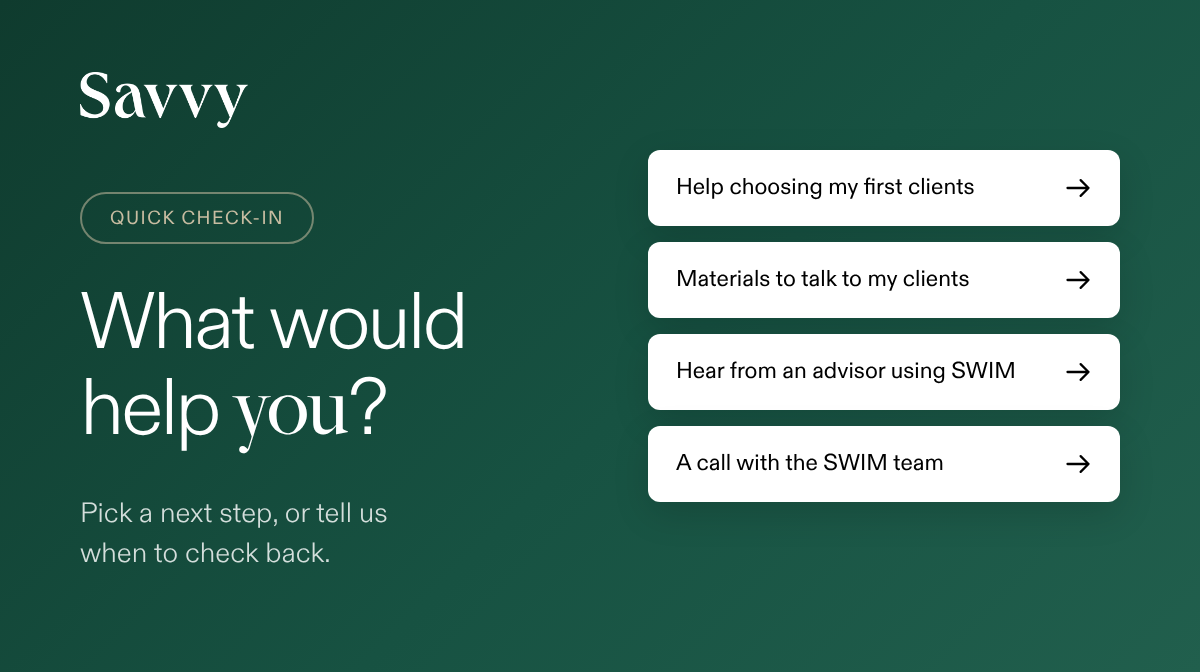
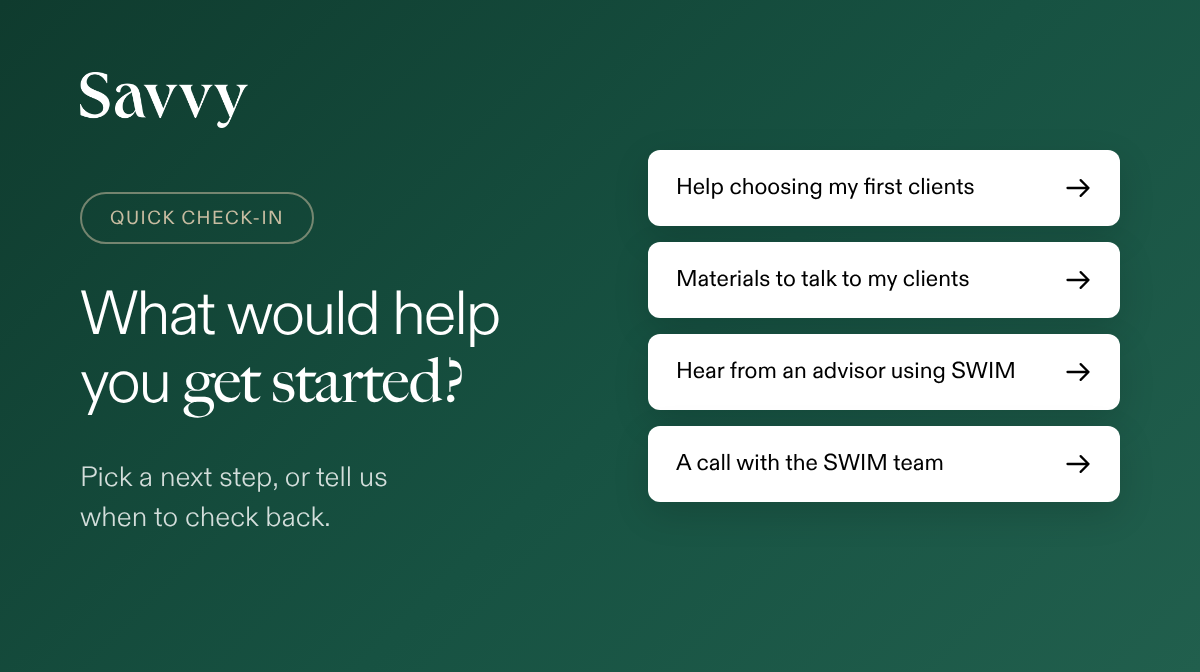
Email 6: original header headline and subheadline
Claude-Session: https://claude.ai/code/session_01C4U8FBFynJxChWkXC4yVRQ

Changed region(s): [[0.0617, 0.4375, 0.4317, 0.7188], [0.0617, 0.75, 0.3392, 0.7812], [0.0617, 0.8125, 0.2775, 0.8438]]

diff --git a/emails/header-6.html b/emails/header-6.html
@@ -15,7 +15,7 @@
   .logo{position:absolute;top:36px;left:40px;width:84px}
   .left{position:absolute;left:40px;top:96px;display:flex;flex-direction:column;align-items:flex-start;gap:20px}
   .eyebrow{border:1px solid rgba(199,188,161,.55);border-radius:999px;padding:7.25px 14px 6.75px;font-size:9.5px;line-height:10px;letter-spacing:.08em;text-transform:uppercase;white-space:nowrap;color:#C7BCA1}
-  h1{font-weight:300;font-size:40px;line-height:42px;letter-spacing:-.04em;white-space:nowrap}
+  h1{font-weight:300;font-size:31px;line-height:33px;letter-spacing:-.04em;white-space:nowrap}
   h1 .serif{font-family:'Big Caslon',Georgia,serif;font-weight:400;letter-spacing:-.01em}
   .sub{font-weight:300;font-size:14px;line-height:20px;color:rgba(255,255,255,.82);white-space:nowrap}
   .art{position:absolute;left:0;top:0}
@@ -34,7 +34,7 @@
   <img class="logo" src="assets/savvy-wordmark-white.png" alt="Savvy">
   <div class="left">
     <div class="eyebrow">Quick check-in</div>
-    <h1>What would<br>help <span class='serif'>you</span>?</h1>
+    <h1>What would help<br>you <span class='serif'>get started?</span></h1>
     <div class="sub">Pick a next step, or tell us<br>when to check back.</div>
   </div>
   

diff --git a/emails/nurture-6.html b/emails/nurture-6.html
@@ -39,7 +39,7 @@
 
     <!-- HEADER IMAGE (source: header-6.html, 1200x672 @2x) -->
     <tr><td style="padding:0;line-height:0;font-size:0;">
-      <img src="./assets/header-6.png" width="600" alt="What would help you? Pick a next step, or tell us when to check back." style="width:100%;max-width:600px;height:auto;">
+      <img src="./assets/header-6.png" width="600" alt="What would help you get started? Pick a next step, or tell us when to check back." style="width:100%;max-width:600px;height:auto;">
     </td></tr>
 
     <!-- INTRO -->

diff --git a/emails/build_emails.py b/emails/build_emails.py
@@ -91,10 +91,10 @@ HEADERS = {
             sub="Time, taxes, and how SWIM<br>fits your approach.",
             graphic=list_card([("clock", "More time with my clients", 0), ("transfer", "Taxes when I move a client", 0), ("circles", "Using my own approach", 0)]),
             alt="Questions advisors ask about SWIM. Time, taxes, and how SWIM fits your approach."),
-    6: dict(eyebrow="Quick check-in", h1="What would<br>help <span class='serif'>you</span>?", fs=40,
+    6: dict(eyebrow="Quick check-in", h1="What would help<br>you <span class='serif'>get started?</span>", fs=31,
             sub="Pick a next step, or tell us<br>when to check back.",
             graphic=tiles(["Help choosing my first clients", "Materials to talk to my clients", "Hear from an advisor using SWIM", "A call with the SWIM team"]),
-            alt="What would help you? Pick a next step, or tell us when to check back."),
+            alt="What would help you get started? Pick a next step, or tell us when to check back."),
 }
 HDR_H, HDR_RB = 336, 51
 
